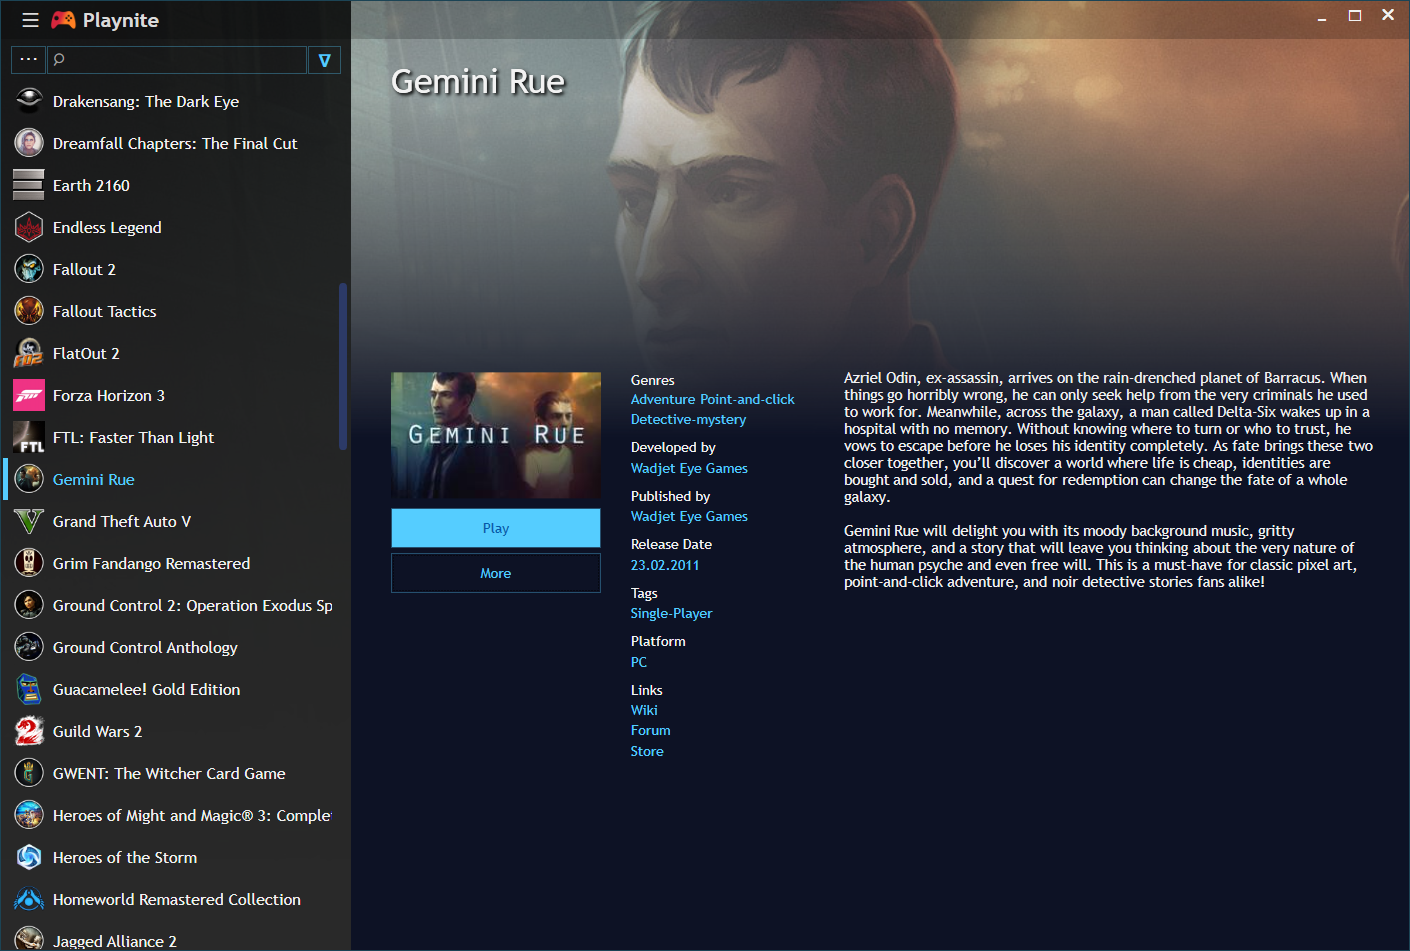
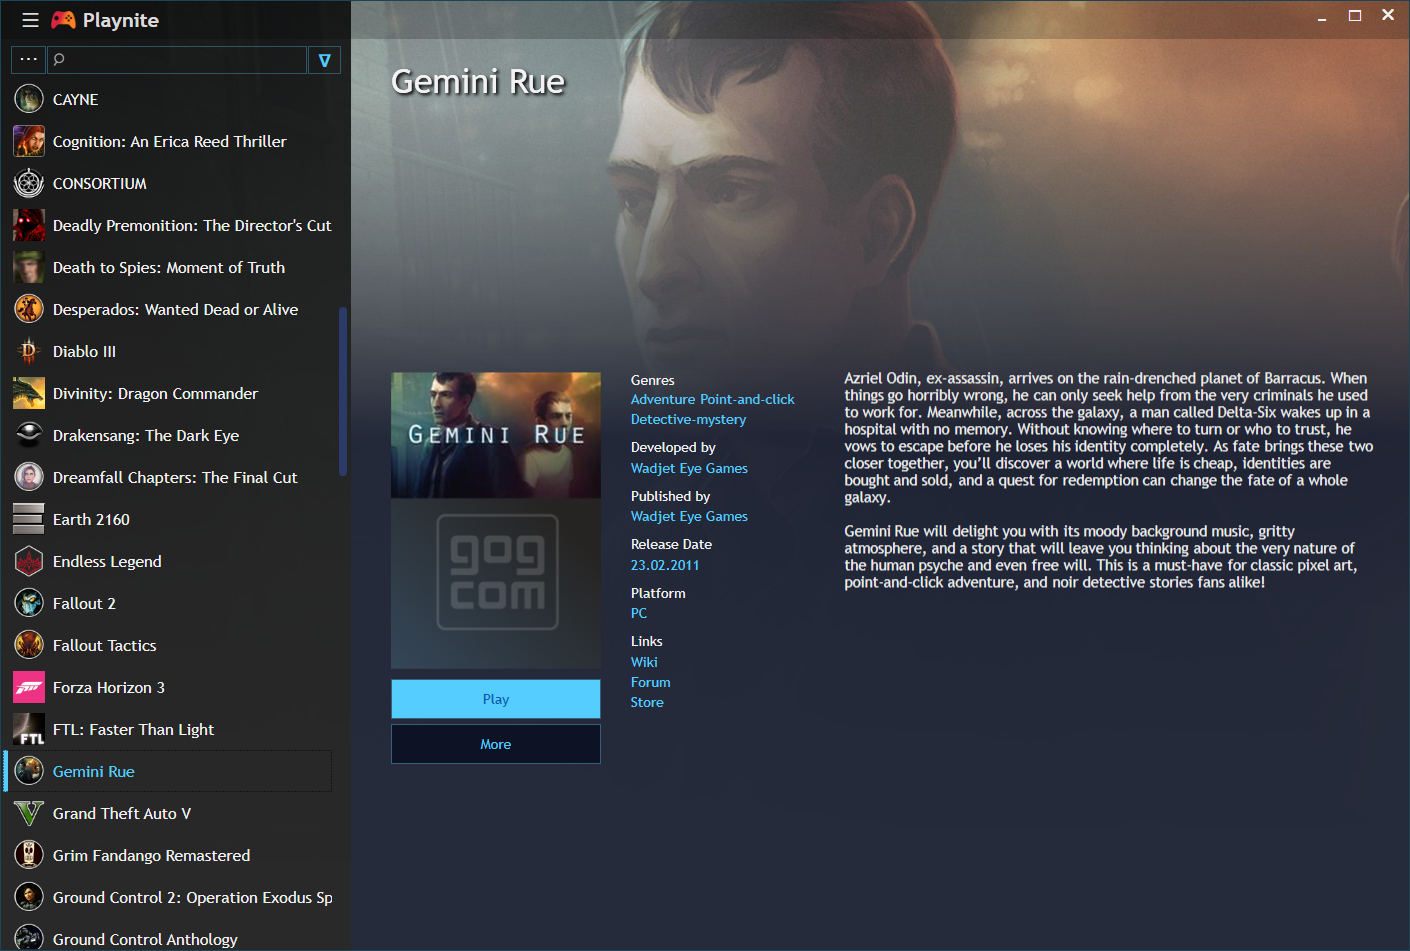
Small visual update

Changed region(s): [[0.0, 0.0915, 1.0, 1.0], [0.5929, 0.3964, 0.9674, 0.6404], [0.4681, 0.4879, 0.4993, 0.5184]]

diff --git a/source/PlayniteUI/Skins/Modern/Modern.xaml b/source/PlayniteUI/Skins/Modern/Modern.xaml
@@ -67,7 +67,7 @@
 
     <LinearGradientBrush x:Key="GameDetailsBackGroundBrush" StartPoint="0.5,0.1" EndPoint="0.5,1" >
         <GradientStop Color="#00000000" Offset="0"/>
-        <GradientStop Color="{DynamicResource MainColorDark}" Offset="0.4"/>
+        <GradientStop Color="#DD0D1225" Offset="0.4"/>
     </LinearGradientBrush>
 
     <!--#region Standard Controls -->

diff --git a/source/PlayniteUI/Skins/Modern/Modern.Red.xaml b/source/PlayniteUI/Skins/Modern/Modern.Red.xaml
@@ -61,6 +61,6 @@
 
     <LinearGradientBrush x:Key="GameDetailsBackGroundBrush" StartPoint="0.5,0.1" EndPoint="0.5,1" >
         <GradientStop Color="#00000000" Offset="0"/>
-        <GradientStop Color="{DynamicResource MainColorDark}" Offset="0.4"/>
+        <GradientStop Color="#DD0D1225" Offset="0.4"/>
     </LinearGradientBrush>
 </ResourceDictionary>
